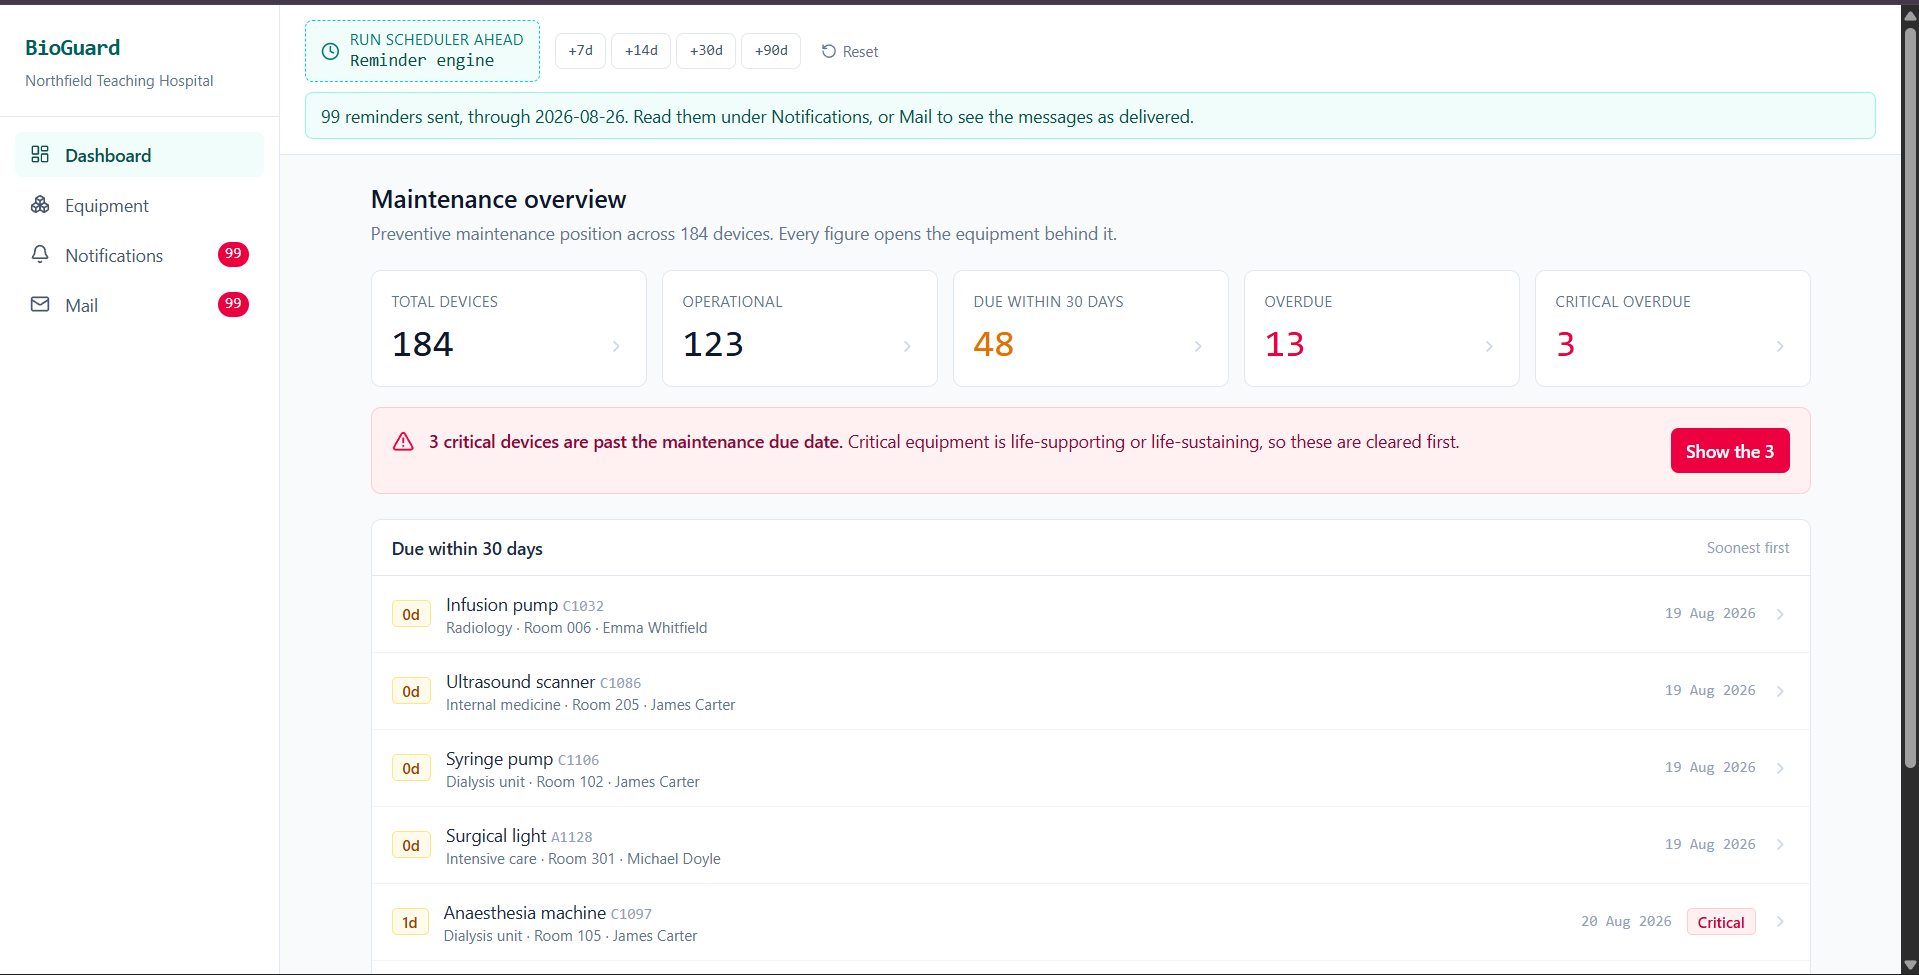
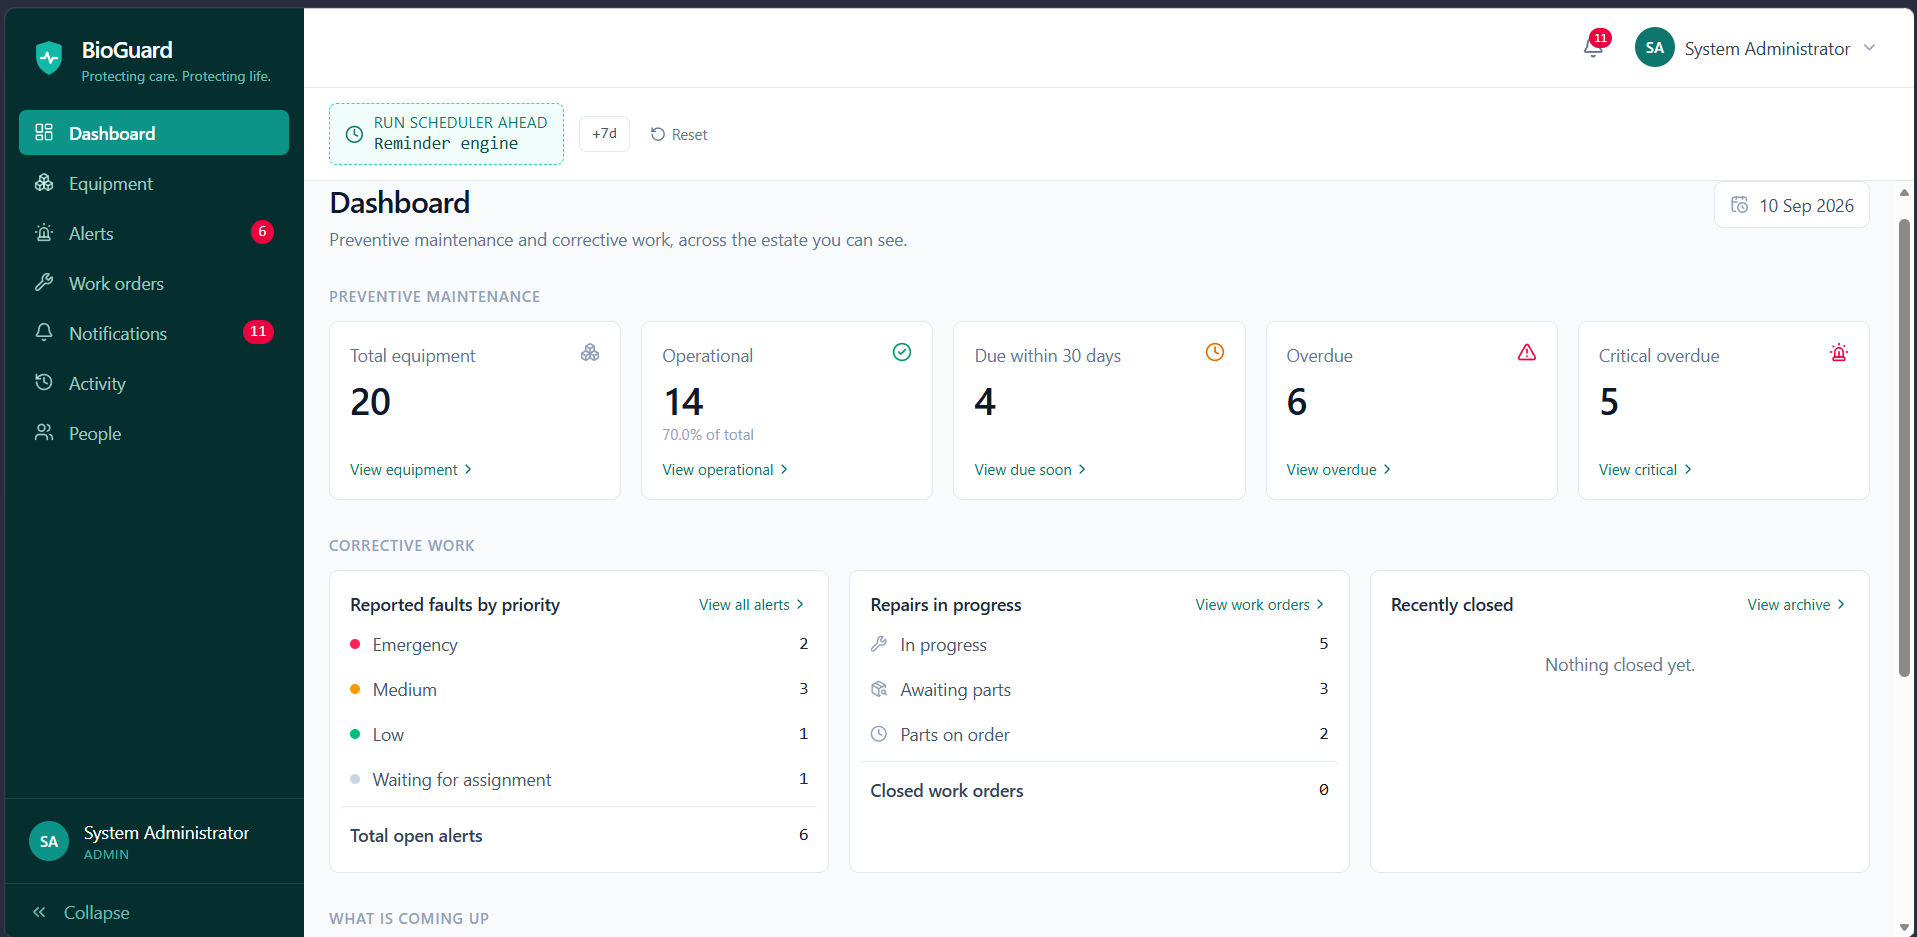
Replace the screenshots with the application as it is
All three were from 19 August, before the redesign. The dashboard one —
the first image in the README — showed a Mail item in the sidebar, 184
devices, four scheduler buttons, a light sidebar and no Alerts, Work
orders, Activity or People. Anyone judging the project was looking at an
application that no longer exists.

The new ones show what is there: 20 devices with the corrective panels
beside the preventive ones, a critical ventilator 61 days late with the
grace-window rule stated on the page, and the overdue list with its
filter chip and the reworded pager.

The equipment caption now leads with what is in the frame. It opened on
filters living in the URL, which was visible while the address bar was
in shot and is not now — the point still holds and still belongs in the
caption, just not as the first thing it claims.

diff --git a/README.md b/README.md
@@ -70,8 +70,9 @@ the QR label that opens this page at the bedside without a sign-in.*
 
 ![Equipment filtered to overdue](docs/equipment.png)
 
-*Filters live in the URL, so a drill-down is a plain link, the back
-button behaves, and a filtered view can be sent to a colleague.*
+*Six devices past their service date, the filter shown as a chip that
+can be cleared. Filters live in the URL, so this view is a plain link —
+the back button behaves and it can be sent to a colleague.*
 
 ## Architecture
 
